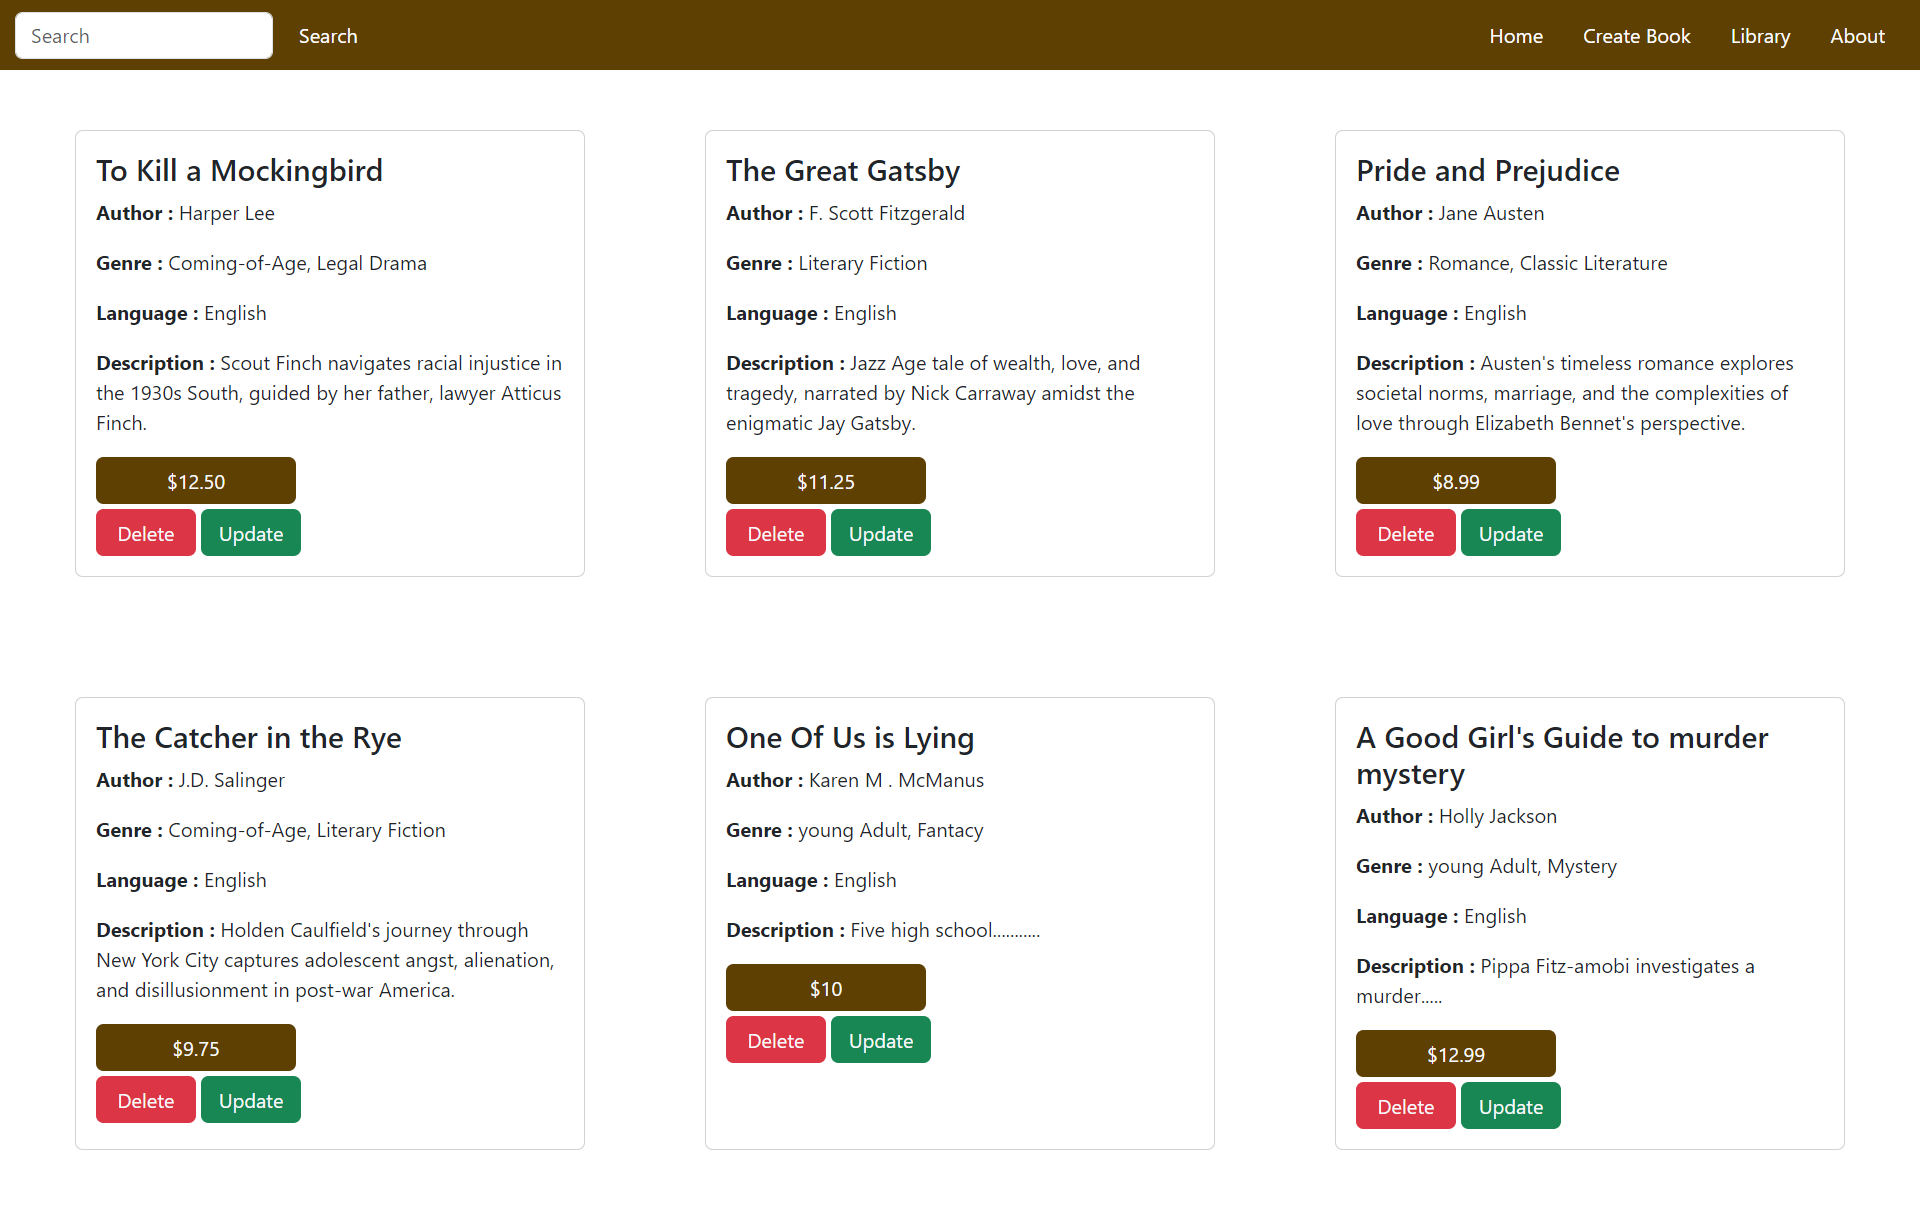
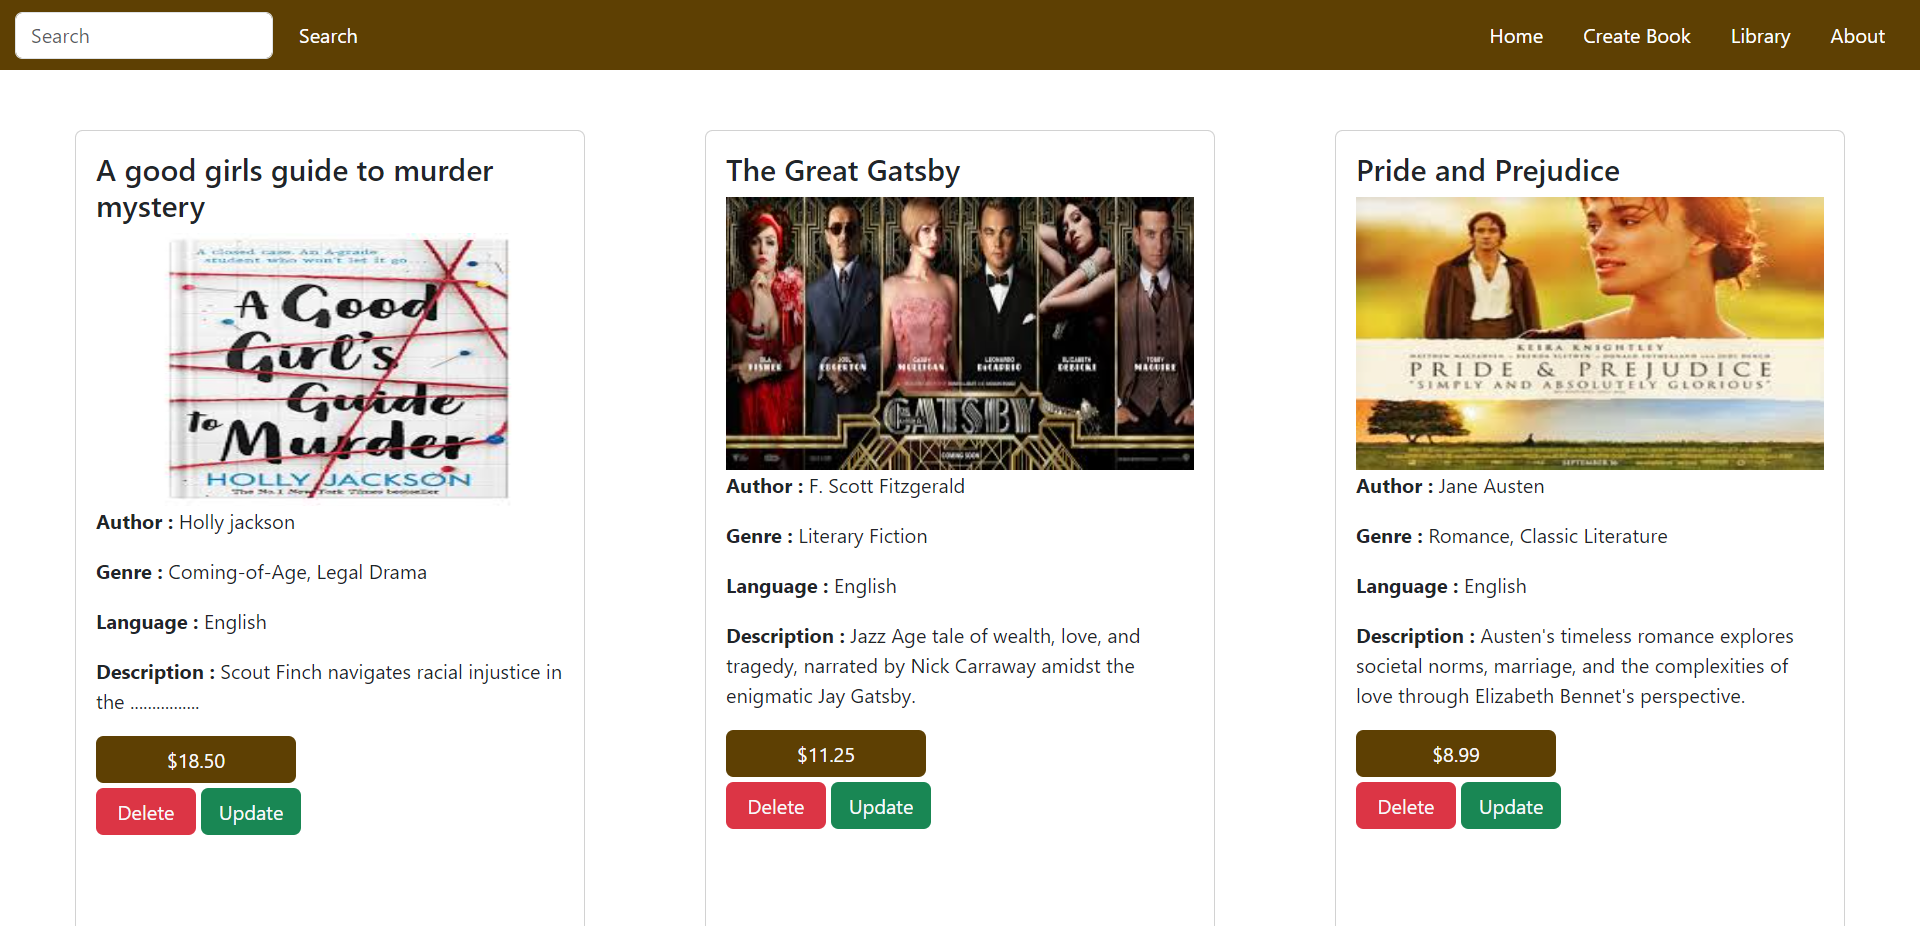
added updated project

diff --git a/src/Pages/Project/ProjectData.jsx b/src/Pages/Project/ProjectData.jsx
@@ -148,8 +148,8 @@ const projectData = [
       img: bookStore,
       live: "https://twitter.com/Devanshihihi/status/1780928825360310701",
       github: "https://github.com/Devanshi-Bilthare/BookStore",
-      skilused: ["MongoDB","Node Js","JavaScript", "BootStrap", "Express","Ejs"],
-      disc: "In this BookStore App, you can  create, read, update, and delete books, ensuring your library is organized just the way you like it. Plus, your book data is securely saved in the app's database, so your collection remains intact even when you reload the app.",
+      skilused: ["MongoDB","Node Js","JavaScript", "BootStrap", "Express","Ejs","Multer"],
+      disc: "In this BookStore App, you can create, read, update, and delete books, and you can upload a book cover too, ensuring your library is organized just the way you like it. Plus, your book data is securely saved in the app's database, so your collection remains intact even when you reload the app.",
       type:"backend"
     },
     {
